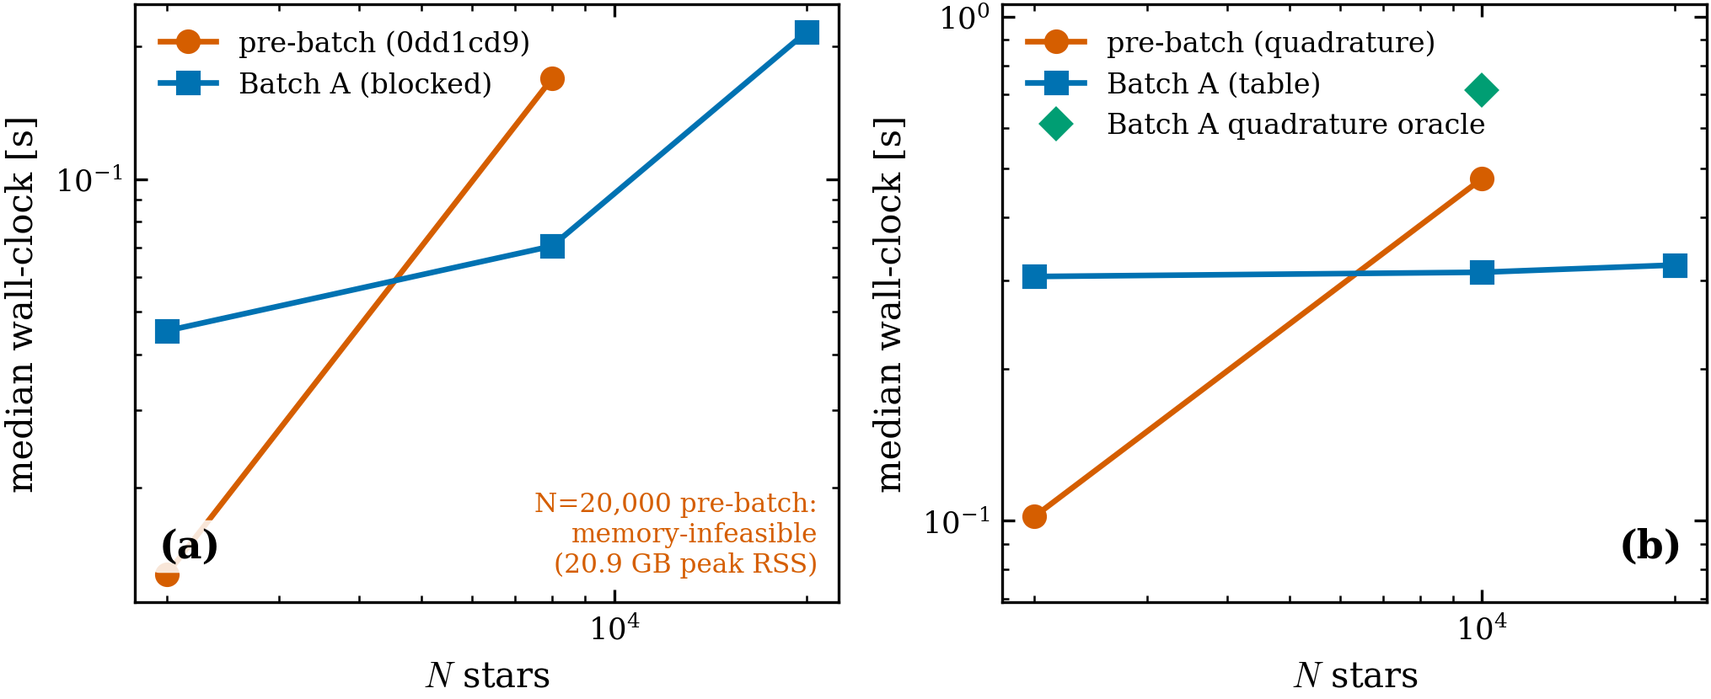
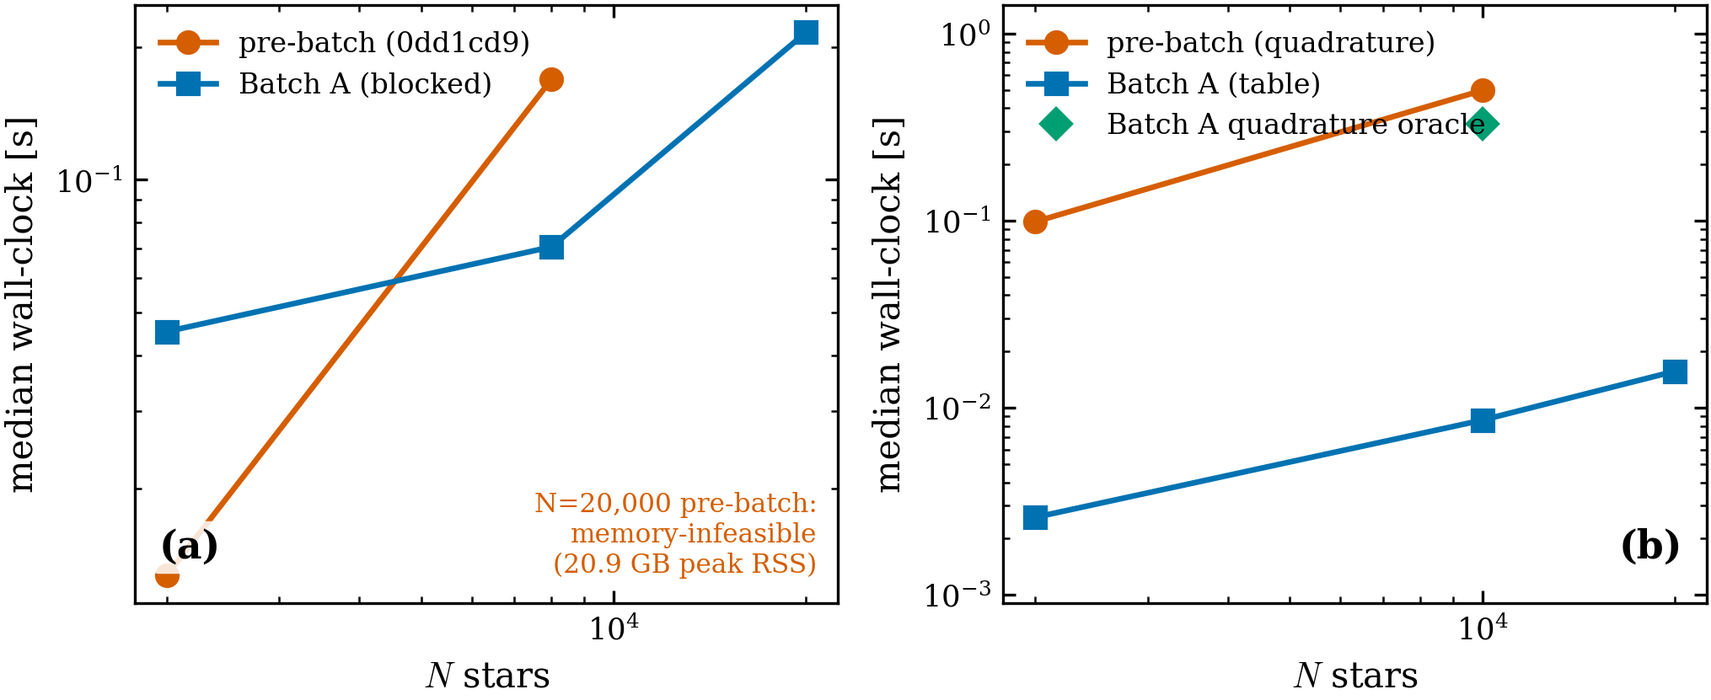
perf(kinematics): sampler-fusion close-out - benchmark re-measured (warm draws 15 ms at N=2e4, 55x), gate tightened to 2.5 GB, docs + counts refreshed (1163)

diff --git a/src/progenax/kinematics/limepy_df.py b/src/progenax/kinematics/limepy_df.py
@@ -104,19 +104,21 @@ class LIMEPYVelocityDF(eqx.Module):
     King (isotropic) / Michie-King (anisotropic).
 
     Speed draws are TABLE-BACKED by default (speed_method="table"): the speed
-    marginal comes from one precomputed inverse-CDF table per call
-    (SpeedCDFTable / AnisoSpeedCDFTable, the same path MultiComponentCluster
-    uses), so live memory is O(N * n_x) instead of the eager per-star
-    quadrature's O(N * 256 * 91) Poisson-sum buffers (measured 10.87 GB at
-    N=2e4 anisotropic; the table path passes the <3 GB gate in
-    scripts/profile_cluster_memory.py). The anisotropic angular conditional
-    cos(theta)|u stays EXACT (_sample_costheta_given_u) -- only the speed
-    marginal is tabulated. speed_method="quadrature" retains the exact
-    per-star quadrature as the oracle (statistical agreement asserted in
-    tests/unit/kinematics/test_limepy_df.py::TestLimepyTableRouting).
-    Small-N note: the anisotropic table build costs ~160 ms per
-    sample_velocities call and dominates below ~3k stars -- batch repeated
-    small draws into one call, or use the quadrature oracle there.
+    marginal comes from the inverse-CDF table CACHED at construction
+    (SpeedCDFTable / AnisoSpeedCDFTable, the same machinery
+    MultiComponentCluster uses), and the whole draw runs through a jitted
+    core, so live memory is O(N) instead of the eager per-star quadrature's
+    O(N * 256 * 91) Poisson-sum buffers (measured at N=2e4 anisotropic:
+    10.87 GB pre-tables; draw-chain peak +0.20 GB cached+jitted; warm draw
+    0.015 s after the one-time ~0.5 s compile). The anisotropic angular
+    conditional cos(theta)|u stays EXACT (_sample_costheta_given_u) -- only
+    the speed marginal is tabulated. speed_method="quadrature" retains the
+    exact per-star quadrature as the oracle (statistical agreement asserted
+    in tests/unit/kinematics/test_limepy_df.py::TestLimepyTableRouting).
+    Cost structure: CONSTRUCTION dominates (~2.6 s / ~1.8 GB peak for an
+    anisotropic model: two ODE solves + the mu integral + the cached table
+    build) -- reuse one DF instance for repeated draws; per-draw cost is
+    then milliseconds at any N.
 
     Attributes:
         W0, g, r_c: model parameters. r_a: anisotropy radius (inf = isotropic).

diff --git a/src/progenax/kinematics/michie_df.py b/src/progenax/kinematics/michie_df.py
@@ -78,19 +78,20 @@ class MichieVelocityDF(eqx.Module):
     anisotropic dimensionless mass integral), so ICs are virial without external rescale.
 
     Speed draws are TABLE-BACKED by default (speed_method="table"): the speed
-    marginal comes from one precomputed inverse-CDF table per call,
-    AnisoSpeedCDFTable.build(W0, p_box, g=1) — Michie IS the g=1 anisotropic
-    LIMEPY model (E_gamma(1, x) = e^x - 1 exactly; the standing
-    distributional proof is test_g1_aniso_matches_michie_velocity_df). The
-    angular conditional cos(theta)|u stays EXACT (_sample_costheta_given_u,
-    weight exp(-(s^2 u^2/2)(1 - cos^2 theta)) = exp(-s^2 u_t^2/2) under
+    marginal comes from the inverse-CDF table CACHED at construction
+    (AnisoSpeedCDFTable.build(W0, p_box, g=1)) via a jitted core — Michie IS
+    the g=1 anisotropic LIMEPY model (E_gamma(1, x) = e^x - 1 exactly; the
+    standing distributional proof is
+    test_g1_aniso_matches_michie_velocity_df). The angular conditional
+    cos(theta)|u stays EXACT (_sample_costheta_given_u, weight
+    exp(-(s^2 u^2/2)(1 - cos^2 theta)) = exp(-s^2 u_t^2/2) under
     u_t = u sin(theta)) — only the speed marginal is tabulated.
     speed_method="quadrature" retains the exact per-star 2-D
     (u_t-marginal-then-u_r) inverse-CDF as the oracle (statistical agreement
     asserted in tests/unit/kinematics/test_michie_df.py::
-    TestMichieTableRouting). Small-N note: the aniso table build (~160 ms
-    per sample_velocities call) dominates below ~3k stars — batch repeated
-    small draws into one call, or use the quadrature oracle there.
+    TestMichieTableRouting). Reuse one DF instance for repeated draws:
+    construction (ODE solve + mu integral + table) dominates; per-draw cost
+    is then milliseconds at any N.
 
     Attributes:
         W0, r_c, r_a: model parameters. xi_grid, psi_grid: Michie ODE solution.

diff --git a/scripts/benchmark_batch_a.py b/scripts/benchmark_batch_a.py
@@ -256,6 +256,11 @@ def main() -> int:
     parser.add_argument("--figures-only", action="store_true",
                         help="re-render the figures from the existing JSON "
                              "(no re-measurement)")
+    parser.add_argument("--only", action="append", default=[],
+                        metavar="PREFIX",
+                        help="run only cases whose id starts with PREFIX "
+                             "(repeatable); results MERGE into the existing "
+                             "JSON so unaffected cases keep their numbers")
     args = parser.parse_args()
 
     if args.figures_only:
@@ -276,10 +281,17 @@ def main() -> int:
     print("BATCH A BENCHMARK (subprocess-isolated; before = pre-batch worktree)")
     print(f"before ref: {PRE_REF}   reps: median of {TIME_REPS} (1 warm-up)")
     print("=" * 76)
+    cases = [c for c in CASES
+             if not args.only or any(c[0].startswith(p) for p in args.only)]
+    if args.only and not cases:
+        raise SystemExit(f"--only {args.only} matches no cases")
+    # Merge mode: start from the existing JSON so unaffected cases persist.
+    results = (json.loads(JSON_PATH.read_text())["results"]
+               if args.only and JSON_PATH.exists() else {})
+    failed = []
     _ensure_worktree(WORKTREE)
-    results, failed = {}, []
     try:
-        for case_id, kind, workload, n, version, extra in CASES:
+        for case_id, kind, workload, n, version, extra in cases:
             res, err = _run_subprocess(case_id, kind, workload, n, version,
                                        extra, WORKTREE)
             if res is None:

diff --git a/src/progenax/kinematics/king_df.py b/src/progenax/kinematics/king_df.py
@@ -71,15 +71,18 @@ class KingVelocityDF(eqx.Module):
     in virial equilibrium (Q = 0.5) without external rescaling, and all particles are
     bound (v < v_esc(r)).
 
-    Speed draws are TABLE-BACKED by default (speed_method="table"): one
-    precomputed inverse-CDF table per call, SpeedCDFTable.build(W0, g=1) —
-    at g=1 the LIMEPY lowered exponential reduces EXACTLY to the King
-    lowering, E_gamma(1, x) = e^x - 1 (identity guarded to rtol 1e-12 in
+    Speed draws are TABLE-BACKED by default (speed_method="table"): the
+    inverse-CDF table is CACHED at construction (SpeedCDFTable.build(W0, g=1))
+    and the draw runs through a jitted core — at g=1 the LIMEPY lowered
+    exponential reduces EXACTLY to the King lowering, E_gamma(1, x) = e^x - 1
+    (identity guarded to rtol 1e-12 in
     tests/unit/kinematics/test_king_df.py::TestKingTableRouting), so the
     table weight x^2 E_gamma(1, W(1-x^2)) IS the King speed weight
     u^2 (exp(W - u^2/2) - 1). speed_method="quadrature" retains the exact
     per-star 256-point quadrature as the oracle (statistical agreement
-    asserted in TestKingTableRouting).
+    asserted in TestKingTableRouting). Reuse one DF instance for repeated
+    draws: construction (ODE solve + table) dominates; per-draw cost is then
+    milliseconds at any N.
 
     Attributes:
         W0: King concentration parameter (dimensionless central potential)

diff --git a/scripts/profile_cluster_memory.py b/scripts/profile_cluster_memory.py
@@ -38,7 +38,9 @@ STAGES = {
     "engineB_halo_core": (100_000, 4.0),
     "virial_pe": (20_000, 2.0),
     "group_virial": (20_000, 2.0),
-    "limepy_df_aniso": (20_000, 3.0),
+    # 2.5 GB: construction-dominated floor (~1.8 GB ODE solves + mu integral
+    # + cached table) + jitted draw (+0.2 GB) + macOS variance headroom.
+    "limepy_df_aniso": (20_000, 2.5),
 }
 _RESULT_PREFIX = "PEAK_RSS_GB"
 

diff --git a/STATUS.md b/STATUS.md
@@ -1,6 +1,6 @@
 # progenax — status
 
-next: **Batch B — cross-engine validation figures + science demos (separate brainstorm + plan).** **DONE (2026-06-10, Anna-approved): Batch A merged to local main** (fast-forward to `2263948`; FAST gate re-verified on merged main 1108; main NOT pushed — 22+ ahead of origin, awaits Anna's go) **+ the performance-evidence addendum** (Anna-requested, plan-approved): `scripts/benchmark_batch_a.py` measures BOTH code versions live (pre-batch worktree at `0dd1cd9` vs HEAD) — wall-clock: PE 2.4× faster at N=8k (0.169→0.070 s), N=2e4 feasible at 0.216 s (dense: 20.9 GB, infeasible), honest small-N regressions measured (PE 3.5× slower at N=2k; DF table-build dominates below ~5k); memory: 16× at N=8k (gated ≥5×); fidelity figures table-vs-quadrature ALL PASS (KS ≤ 6.7e-3); NEW `50-validation/performance-memory.md` page (myst 144 pages, 0 warnings) + King/Michie fidelity embeds. The multi-component cluster arc is DONE end-to-end: Engines A (LIMEPY DF tables) + B (density-defined Eddington) merged to main (`4f4f259`), the post-merge code-review fix batch landed (`0dd1cd9`), and **Batch A (memory + consolidation + docs)** is complete — blocked+remat'd virial kernels (forward AND grad O(block·N)), table-routed standalone LIMEPY/King/Michie DFs (quadrature kept as the `speed_method="quadrature"` oracle), `progenax.numerics` consolidation (cumtrap ×5 + inverse-CDF draws), `_EngineAState` grouping (A-only access on B raises informative AttributeError), shared angular conditional in `kinematics/_speed_kernels.py`, `lax.map(batch_size=2048)` bounded oracles, and the docs metrics refresh. **Memory headline (measured, `scripts/profile_cluster_memory.py`, all PASS): virial kernel at N=2e4 32.8 GB → 0.41 GB; standalone anisotropic DF sampling 10.9 GB → 2.3 GB; Engine A/B builds at N=1e5 ≤ 2.5 GB.** Gate: released-core **1150 passed** (unit 882 / integration 34 / validation 234; fast gate 1108). **Merge/push of `fix/memory-and-consolidation` awaits Anna's go.**
+next: **Batch B — cross-engine validation figures + science demos (separate brainstorm + plan).** **DONE (2026-06-10, Anna-approved): DF sampler-fusion micro-batch** (profile-driven: staged RSS decomposition showed construction ~1.7 GB dominates, eager draw +0.63 GB): speed-CDF tables cached at construction + jitted sampling cores (eqx.filter_jit) for LIMEPY/King/Michie standalone DFs — warm aniso draws **0.35 s → 15 ms** at N=2e4 (3–16 ms across N; 55× vs pre-batch quadrature at N=1e4), draw-chain peak +0.63→+0.20 GB, stage 2.37→2.02 GB, `limepy_df_aniso` gate tightened 3.0→2.5 GB, small-N build penalty eliminated; lax.map chunking of the table draw evaluated and rejected on measurement. Fidelity re-verified on the jitted path (identical KS/moment/β, ALL PASS). Gate: **1163** released-core (unit 895; fast 1121). Remaining DF-stage floor is model CONSTRUCTION (~1.8 GB, paid once per model) — future target if ever needed. **DONE (2026-06-10, Anna-approved): Batch A merged to local main** (fast-forward to `2263948`; FAST gate re-verified on merged main 1108; main NOT pushed — 22+ ahead of origin, awaits Anna's go) **+ the performance-evidence addendum** (Anna-requested, plan-approved): `scripts/benchmark_batch_a.py` measures BOTH code versions live (pre-batch worktree at `0dd1cd9` vs HEAD) — wall-clock: PE 2.4× faster at N=8k (0.169→0.070 s), N=2e4 feasible at 0.216 s (dense: 20.9 GB, infeasible), honest small-N regressions measured (PE 3.5× slower at N=2k; DF table-build dominates below ~5k); memory: 16× at N=8k (gated ≥5×); fidelity figures table-vs-quadrature ALL PASS (KS ≤ 6.7e-3); NEW `50-validation/performance-memory.md` page (myst 144 pages, 0 warnings) + King/Michie fidelity embeds. The multi-component cluster arc is DONE end-to-end: Engines A (LIMEPY DF tables) + B (density-defined Eddington) merged to main (`4f4f259`), the post-merge code-review fix batch landed (`0dd1cd9`), and **Batch A (memory + consolidation + docs)** is complete — blocked+remat'd virial kernels (forward AND grad O(block·N)), table-routed standalone LIMEPY/King/Michie DFs (quadrature kept as the `speed_method="quadrature"` oracle), `progenax.numerics` consolidation (cumtrap ×5 + inverse-CDF draws), `_EngineAState` grouping (A-only access on B raises informative AttributeError), shared angular conditional in `kinematics/_speed_kernels.py`, `lax.map(batch_size=2048)` bounded oracles, and the docs metrics refresh. **Memory headline (measured, `scripts/profile_cluster_memory.py`, all PASS): virial kernel at N=2e4 32.8 GB → 0.41 GB; standalone anisotropic DF sampling 10.9 GB → 2.3 GB; Engine A/B builds at N=1e5 ≤ 2.5 GB.** Gate: released-core **1150 passed** (unit 882 / integration 34 / validation 234; fast gate 1108). **Merge/push of `fix/memory-and-consolidation` awaits Anna's go.**
 
 PRIOR (collapsed; superseded-arc detail in `docs/plans/` + `.claude-work/`): **UNIFIED MULTI-COMPONENT CLUSTER REDESIGN on branch `feat/multimass-limepy-equilibrium`.** An 8-dimension adversarial review of the two-component/segregation code found ONE real physics bug (`generate_two_component_cluster` feeds the FULL mass to each sub-population's velocity DF + no COM/virial rescale → non-self-consistent for unequal-mass IMFs; silent because tests use `jnp.ones(N)`) + an ad-hoc API; the `lambda_seg` blend + `energy_sorted_segregation` are sound. **Decision (Anna, pre-launch, no backwards-compat):** build ONE unified differentiable `MultiComponentCluster` (eqx.Module → ICResult) spanning mass-seg · GC 1G/2G · binaries-vs-singles · halo+core, via TWO engines — **Engine A** (DF-defined lowered-isothermal/LIMEPY, mostly built) + **Engine B** (density-defined Eddington/OM for Plummer/EFF/King). Keep `energy_sorted_segregation` as a labeled PRIMORDIAL generator; **retire the `lambda_seg` blend**. Subsume+retire `MultiMassLIMEPY` (mass-seg → a `.from_mass_segregation()` constructor). Plan: `~/.claude/plans/we-are-continuing-progenax-s-crispy-rain.md`. KEY INSIGHT: a component's single free Engine-A scale is the velocity-scale ratio `w_j=s_j/s` with `rescale_j=w_j^-2`; mass-seg is `w_j=μ_j^-δ`. **DONE: Phase 1a** — extracted `solve_multicomponent_limepy(alpha_j, rescale_j, W0, g, ra_hat_j=None)` core (direct per-component scales); `solve_multimass_limepy` is now a thin mass-wrapper (bit-identical, verified); +5 TDD unit tests; committed `47dc24a`. **DONE: Phase 1b (commit `13de746`, NOT pushed)** — `progenax.cluster.multicomponent.MultiComponentCluster` (eqx.Module): physics flows from `(w_j, rescale_j=w_j^-2, ra_hat_j)`, `m_j` decoupled (labels only); `.from_components` (general: GC 1G/2G, halo+core) / `.from_mass_segregation` (w_j=μ_j^-δ) / `.from_imf`; `sample_cluster → ICResult` with NEW optional `component_id` field; the NEW unequal-mass two-population regression passes (theory Q_j=0.5±2e-3, sampled global ±0.04, per-component ±0.07); `MultiMassLIMEPY` RETIRED (tests ported, validation file + both `validate_multimass_*` scripts rewired and re-run PASS, exports updated). Released-core **1065 passed, exit 0** (1056 at 1a − 14 ported-out + 23 new). **DONE: speed fixes** (commit `3f15479`): pytest-xdist + XLA thread caps + `slow` markers (FAST/FULL gates in CLAUDE.md); solver `rho_j_grid` reuse; jitted sampler core. **DONE: Phase 1.5 — LIMEPY DF tables** (Anna-approved plan `docs/plans/2026-06-09-limepy-df-tables-phase15.md`, subagent-driven with per-task independent review; commits `dda2887..f69f36d` + close-out, NOT pushed): three differentiable table primitives in `profiles/limepy_tables.py` (`AnisoDensityTable` (√W, asinh p) cubic-Lagrange; `SpeedCDFTable` 256×256; `AnisoSpeedCDFTable` 192×48×192 speed marginal with EXACT angular conditional) replace pointwise quadrature in the coupled-Poisson RHS + both sampler branches. **Measured: aniso construction 957→170 ms (5.6×); sampling at N=1e5: iso 67×, aniso 21.7× (0.48/2.9 µs/star); aniso small-N break-even ~3k stars (documented).** Every approximation budget-asserted with the exact quadrature retained as a selectable oracle (`aniso_method="quadrature"`) — density 6.05e-6 (1e-5 budget), solve |Δψ|≤1.93e-4 over 3 configs, CDF 4.5e-5, speed moments ≤0.28%/1.5% vs DF quadrature, β(r)≡DF <0.06 unchanged, AD-vs-FD 2.15e-4 + table-AD≡quadrature-AD 2.1e-4; `component_virial_ratios` deliberately quadrature-ONLY (oracle independence: table-built model proves Q_j=0.5001±1.5e-4). Reviews caught+fixed 3 real bugs pre-merge (W≤0 NaN gradient at the truncation boundary; high-g (≥2.5) CDF-row underflow corrupting outer-shell speeds, now gated g∈{0,2.5,3.5}; the plan's own √(2π) test bug). `scripts/validate_df_tables.py` ALL PASS; completion doc `.claude-work/TASK_1.5_DF_TABLES_COMPLETE.md`. Released-core at 1.5 close-out: 1098 (gate evidence in `.claude-work/TASK_1.5_DF_TABLES_COMPLETE.md`, commit `a85bada`). **DONE: Phase 1c (commits `b1caabb`, `8cda23d`, + 1c-3; NOT pushed)** — the Anna-approved OUTRIGHT DELETION (−3.4k LOC): `populations.py` (the full-mass-to-each-DF physics-bug module) + `cluster/core.py` (string-dispatch `generate_cluster_ic`/`ClusterState`/`SpatialStructureParams`/`MassSegregationLayer`) + `cluster/validation.py` + all `lambda_seg` machinery/scripts RETIRED; `test_segregation_equilibrium_physics.py` PORTED onto the primordial generator via the protocol API (λ=1 endpoint Q_j drift<0.08, orbit-reuse regression, Λ_MSR rises); `validate_cluster_ic.py` §2 rewired to `MultiComponentCluster` (cold w=0.7 median r 1.50 pc < hot 8.36 pc, oracle Q_j=[0.5,0.5], ALL PASS); `mass_segregation.py` relabeled PRIMORDIAL (documented departure from Baumgardt+2008 random per-bin draw; wrong MNRAS 384,1231 cite died with populations.py; dead `_mcluster_partial_shuffle` removed); **eqx migration complete — src/ is dataclass-free** (`ICResult`/`Systems`/`Stars`/`TotalMass`/`AnalyticalIC`/`RotationParams`/`VelocityModel` now eqx.Modules; physical scalars stay differentiable leaves, control-flow config static; jit-over-ICResult verified); `compute_profile_potential` docstring fixed (SPECIFIC potential, [length]²/[time]²). Full gate **1064 passed in 438s** (unit 802/integration 34/validation 228; fast gate 1029; exact count reconciliation 1098−28−7−4+4+1). Phase-3 note: 16 docs/website source pages still reference the deleted API (inventoried; the docs sweep is Phase 3 scope). **DONE: Phase 2 — Engine B (density-defined Eddington), commits `292b6b0..08e328b` + close-out, NOT pushed:** `MultiComponentCluster.from_density_profiles(profiles, mass_fractions, m_j, r_a_j=None, r_t=None)` — Plummer/EFF/King DENSITY components in ONE shared self-consistent potential (no ODE: one cumtrap Poisson pass, new `profiles/density_poisson.py` with derived-domain provenance + King-override conflict rule), per-component DFs via the generic `eddington_invert` (extracted from the EFF table BIT-IDENTICALLY, pinned; + Plummer E^{7/2} (untruncated zero point) and EXACT truncated closed-form oracles, 1.06e-4/8.86e-6), optional per-component OM `r_a_j`, f_j≥0 realizability gate (concrete builds refuse naming the component + f_min + remedy; traced builds store the `f_min_j` diagnostic). Anchors ALL PASS (`scripts/validate_multicomponent_eddington.py`, 11/11): King A-vs-B (TWO independent engines: σ_1d(r) dev 3e-4, radial KS 2e-4, both gates 0.02), EFF(γ=5)≡Plummer twins, halo+core headline (theory Q_j=0.5±4e-4; sampled global Q=0.4976 UNSCALED at N=30k; sampled per-component Q_j ≡ the hybrid predict-the-offset quadrature expectation — the hard-truncated halo's plateau 0.4953 predicted / 0.4947±0.0014 sampled (18 seeds) is VERIFIED truncation-edge physics, gated on the prediction, Anna-approved), OM β_halo(r)≡r²/(r²+r_a²) (max dev 0.028 < 0.05), DF-density fidelity 1.06e-3 (OM) / 2.4e-4 (iso) vs 5e-3 gate, AD≡FD 5.6e-9/7.8e-7/2.0e-8 (r_h, mass-fraction t, r_a). THREE physics findings: (1) the E^{7/2} oracle needs the UNTRUNCATED zero point (truncation shifts E by c=M/√(r_t²+a²), ~30% at 0.1Ψ₀); (2) the plan's default a_EFF=0.4 core is GENUINELY unrealizable (f_min −0.20; gate flip measured a∈(0.65,0.68); headline uses 0.8); (3) hybrid-sampling Q_j plateau predicted+verified. Plus the King dW/dr staircase bug (jnp.gradient of interpolated ψ → Eddington ringing, f_min −0.679) fixed via King's own Poisson identity → +5.1e-7. Full gate **1101 passed in 511s, exit 0** (unit 833, integration 34, validation 234; fast gate 1059); close-out `.claude-work/PHASE_2_ENGINE_B_COMPLETE.md`. **DONE: merge + push (2026-06-10, Anna-approved):** `feat/multimass-limepy-equilibrium` fast-forwarded into `main` (`18f116b..4f4f259`), merged-main gate re-verified **1101 passed**, pushed; local branch deleted (stale remote branch copy left — remote deletion not authorized). **DONE: Phase 3 docs sweep (2026-06-10):** comprehensive website update — `lowered-model-family.md` flipped roadmap→implemented Engine A methods page; populations section rewritten around the two-engine `MultiComponentCluster` (+ NEW `10-theory/populations/eddington-engine.md`); API reference regenerated (PUBLIC_MODULES −populations +cluster/diagnostics/dynamics; 11 module pages, 175 symbols; `30-api/populations.md` deleted); NEW `50-validation/{multimass-equilibrium,engine-b-eddington}.md` with Measured tables + figures (stale mass-seg numbers corrected by re-running validate_cluster_ic.py: Λ_MSR 4.74, ρ(m,E)=−0.92); all 16 inventoried stale-API pages fixed (dev-log: dated retirement admonitions, history preserved); myst build clean (142 pages, 0 warnings). **DONE: /code-review of the merged arc (7 finder angles + verification):** 3 CONFIRMED post-merge correctness bugs — (1) NaN-blind realizability gate (`nan < -1e-3` False; r_a_j=0 → silent all-NaN model), (2) no mass_fractions/m_j/r_a_j length validation vs profiles (phantom components via clamped gathers; potential built from wrong total mass), (3) absolute Ψ thresholds in `sample_speed_from_f_table` are scale-dependent (r_h≳1e4 pc → exact-zero speeds; 80% of stars at r_h=1e6) — plus `total_density()`/`rescale_j` silent-NaN on Engine B, `is_aniso=False` lie for OM-B models, `r_t_provenance` static field embedding float values (per-r_t recompile + vmap break), and a consolidation list (DF speed-moment kernel ×5 copies w/ inconsistent n_w, cumtrap Poisson pass ×3, King density/derivative split, union-by-NaN → _EngineAState grouping). All documented honestly in the new docs limitations admonitions. **RESUME AT: the code-review fix batch (findings 1–3 first; then 4–6; consolidations after), then cross-engine validation figures + science demos.** HITL: push only when Anna says.
 

diff --git a/docs/website/50-validation/performance-memory.md b/docs/website/50-validation/performance-memory.md
@@ -50,7 +50,7 @@ way; the blocked kernel is 0.41 GB at the same $N$.
 * - aniso `LIMEPYVelocityDF.sample_velocities`
   - 20,000
   - 14.6 GB (10.9 GB in the original probe)
-  - **2.37 GB** (≥ 4.6×)
+  - **2.02 GB** (≥ 5.4×; construction-dominated — see below)
 ```
 
 The pass gates live in `scripts/profile_cluster_memory.py` (7 stages,
@@ -75,11 +75,22 @@ measured: `jax.grad` of the potential energy at $N=2\times10^4$ now peaks at
 — verified against an independent dense oracle at rtol $10^{-13}$, gradient
 parity $\leq 2\times10^{-14}$ — only the float64 summation *order* changes
 across blocks. (2) The standalone DFs draw speeds from the same precomputed
-CDF tables the cluster sampler already used (built once per call, ~14 MB);
-the exact per-star quadrature is retained as the oracle behind
-`speed_method="quadrature"`.
+CDF tables the cluster sampler already used (~14 MB), **cached on the module
+at construction** and consumed through a **jitted sampling core**
+(`eqx.filter_jit`, the `cluster/sampling.py` pattern) so the draw chain fuses
+instead of materializing every eager intermediate. A staged profile
+(2026-06-10, $N=2\times10^4$ aniso) attributes the remaining footprint:
+**construction dominates** (~1.8 GB: two ODE solves + the $\mu$ integral +
+the cached table build, paid once per model), the jitted draw adds only
++0.20 GB (eager it was +0.63 GB), and warm draws take **15 ms** after the
+one-time ~0.5 s compile. The exact per-star quadrature is retained as the
+oracle behind `speed_method="quadrature"` (also jitted now). A further
+`lax.map` chunking of the table draw was evaluated and **rejected on
+measurement**: it would shave part of a 0.2 GB component inside a
+construction-dominated stage while adding scan overhead to a millisecond
+hot path.
 
-## Wall-clock: measured, including the honest small-$N$ regressions
+## Wall-clock: measured, including the honest small-$N$ crossover
 
 :::{figure} figures/performance_walltime.png
 :name: fig-performance-walltime
@@ -90,15 +101,14 @@ Median wall-clock per call vs $N$ (log–log; 2026-06-10). **(a)**
 (2.4× at $N=8{,}000$: 0.169 → 0.070 s) and is the only feasible option at
 $N = 2\times10^4$ (0.216 s); below the crossover the dense broadcast is
 faster (0.013 vs 0.045 s at $N=2{,}000$) — scan overhead dominates when the
-dense transient is only ~100 MB. **(b)** anisotropic LIMEPY sampling: the
-table path is nearly flat in $N$ (the ~0.3 s is dominated by the one-time
-table build, which amortizes), 1.5× faster than pre-batch at $N=10^4$ and
-increasingly far ahead as $N$ grows; at small $N$ the build dominates
-(documented in the DF docstrings — batch small repeated draws, or use the
-quadrature oracle there). The post-batch quadrature oracle (green) is slower
-than the pre-batch eager `vmap` because it is `lax.map`-chunked to bound its
-memory — the deliberate trade for an oracle that can run next to the table
-path in tests without filling RAM.
+dense transient is only ~100 MB. **(b)** anisotropic LIMEPY sampling, after
+the sampler-fusion follow-up (table cached at construction + jitted core):
+warm draws cost **3–16 ms** across $N = 2\times10^3$–$2\times10^4$ — 55×
+faster than the pre-batch quadrature at $N=10^4$ (0.497 → 0.009 s) — with the
+former small-$N$ table-build penalty eliminated (the build moved into
+construction, paid once per model; a ~0.5 s jit compile is paid on the first
+draw per $N$). The quadrature oracle (green) also runs in the jitted core
+(0.33 s at $N=10^4$, `lax.map`-chunked to bound its memory).
 :::
 
 Timings are reported, never gated (they vary with machine load); the memory
@@ -135,6 +145,11 @@ embedded on the [King](king-profile.md) and
 
 Exact potential energies, virial diagnostics, and their `jax.grad` at
 $N \gtrsim 10^5$ on a laptop (footprint linear in $N$; `block_size` is
-tunable); standalone anisotropic DF sampling at survey scale; and a CI-able
-memory regression gate. The $N=2\times10^4$ workloads that previously OOM'd
-this 68.7 GB machine now fit in half a GB.
+tunable); standalone anisotropic DF sampling at survey scale with
+millisecond repeated draws (build the DF once, draw many times — e.g. seed
+ensembles); and a CI-able memory regression gate (the `limepy_df_aniso` gate
+is tightened to 2.5 GB to lock in the fusion win). The $N=2\times10^4$
+virial workloads that previously OOM'd this 68.7 GB machine now fit in half
+a GB; the remaining DF-stage floor (~1.8 GB) is **model construction** (ODE
+solves + the $\mu$ integral), a future optimization target if it ever
+matters — it is paid once per model, not per draw.

diff --git a/CLAUDE.md b/CLAUDE.md
@@ -6,8 +6,8 @@ Differentiable initial conditions for N-body simulations in JAX. Part of the **j
 
 **Status**: Phase 1 + 2026-06 audit hardening + binaries SoTA arc (Batches 4f–4k) +
 gravoturbulent-FDF clean-room rewrite + multi-component cluster arc (Engine A LIMEPY DF tables +
-Engine B density-defined Eddington) complete - 16,957 LOC released-core source, 1472 tests
-(released-core 1150: unit 882, integration 34, validation 234; experimental 322). King & EFF velocity DFs are true
+Engine B density-defined Eddington) complete - 16,957 LOC released-core source, 1485 tests
+(released-core 1163: unit 895, integration 34, validation 234; experimental 322). King & EFF velocity DFs are true
 equilibria (lowered-Maxwellian / Eddington inversion). The binary-population engine is finalized:
 IMF→companion composition (`build_binary_cluster` over `primary_imf × companion_model × target`),
 faithful Moe & Di Stefano (2017) P–q–e coupling (`MoeCompanions`), the binary→spatial connector
@@ -28,16 +28,16 @@ outer-venv clash and `--no-sync` runs against the installed env without re-locki
 # Install (released core + experimental extras: blackjax, optax for the inference layer)
 env -u VIRTUAL_ENV uv pip install -e ".[dev,experimental]"
 
-# Released-core invariant (1150 tests). The multimass-LIMEPY equilibrium tests make the
+# Released-core invariant (1163 tests). The multimass-LIMEPY equilibrium tests make the
 # serial suite ~17 min; use pytest-xdist with XLA threads capped (one process per core).
-# FAST GATE (inner loop, 1108 tests, ~4 min): excludes @pytest.mark.slow
+# FAST GATE (inner loop, 1121 tests, ~4 min): excludes @pytest.mark.slow
 XLA_FLAGS="--xla_cpu_multi_thread_eigen=false intra_op_parallelism_threads=1" \
   env -u VIRTUAL_ENV uv run --no-sync pytest tests/unit tests/integration tests/validation -q -m "not slow" -n auto
-# FULL GATE (phase/commit gate, 1150 tests, ~9 min parallel):
+# FULL GATE (phase/commit gate, 1163 tests, ~9 min parallel):
 XLA_FLAGS="--xla_cpu_multi_thread_eigen=false intra_op_parallelism_threads=1" \
   env -u VIRTUAL_ENV uv run --no-sync pytest tests/unit tests/integration tests/validation -q -n auto
 
-env -u VIRTUAL_ENV uv run --no-sync pytest tests/unit/ -q             # 882 unit tests (released core)
+env -u VIRTUAL_ENV uv run --no-sync pytest tests/unit/ -q             # 895 unit tests (released core)
 env -u VIRTUAL_ENV uv run --no-sync pytest tests/integration/ -q      # 34 integration tests
 env -u VIRTUAL_ENV uv run --no-sync pytest tests/validation/ -q       # 234 physics validation tests
 
@@ -193,8 +193,8 @@ energy = compute_total_energy(positions, velocities, masses, G=PLANETARY.G)  # W
 ## Test Structure
 
 ```text
-tests/                   1150 released-core tests
-├── unit/                882 tests
+tests/                   1163 released-core tests
+├── unit/                895 tests
 │   ├── imf/             IMF tests (PowerLaw, Chabrier, IGIMF, Binary, Moe full P-q-e)
 │   ├── profiles/        Profile tests (Plummer, King, EFF)
 │   ├── kinematics/      Velocity DF tests + anisotropy

diff --git a/docs/website/00-getting-started/whats-new.md b/docs/website/00-getting-started/whats-new.md
@@ -7,6 +7,30 @@ description: Release-style changelog for progenax — most recent change first. 
 Release-style changelog. Most recent change first. Curated from the
 [development log](../90-development-log/index.md).
 
+## 2026-06-10 — Standalone-DF sampler fusion (cached tables + jitted cores)
+
+Profile-driven follow-up to the memory batch (staged peak-RSS decomposition
+at $N=2\times10^4$ anisotropic):
+
+- **Speed-CDF tables cached at construction** — the LIMEPY / King / Michie
+  standalone DFs build their inverse-CDF table once in `__init__` (it depends
+  only on construction-time parameters) instead of on every
+  `sample_velocities` call. The former small-$N$ per-call build penalty is
+  gone.
+- **Jitted sampling cores** (`eqx.filter_jit`, the cluster-sampler pattern) —
+  the draw chain fuses instead of materializing every eager intermediate:
+  draw-chain peak +0.63 GB → +0.20 GB; warm anisotropic draws
+  **0.35 s → 15 ms** at $N=2\times10^4$ (3–16 ms across
+  $N=2\times10^3$–$2\times10^4$; 55× vs the pre-batch quadrature at $N=10^4$).
+  Table-vs-oracle fidelity re-verified on the jitted path (identical KS /
+  moment / $\beta$ numbers, ALL PASS).
+- The `limepy_df_aniso` memory gate is **tightened 3.0 → 2.5 GB** (measured
+  2.02 GB; the remaining floor is model *construction*, paid once per model).
+  Full numbers and figures: [performance & memory](../50-validation/performance-memory.md).
+
+**Gate.** Released-core **1163 tests passing** (unit 895, integration 34,
+validation 234).
+
 ## 2026-06-10 — Memory-bounded kernels, table-routed standalone DFs, numerics consolidation
 
 A production-scale memory + consolidation pass over the cluster and kinematics stack:

diff --git a/docs/website/50-validation/index.md b/docs/website/50-validation/index.md
@@ -22,8 +22,8 @@ See the [**validation audit report**](audit-report.md) for trustworthiness tiers
 
 The single place to see the V&V state. ✅ = tests pass *and* verified figure(s)
 embedded on the page; ⚠ = tested but page/figures pending the module audit.
-Released-core suite (2026-06-10): **1150 tests**
-(unit 882 / integration 34 / **validation 234**), full gate green.
+Released-core suite (2026-06-10): **1163 tests**
+(unit 895 / integration 34 / **validation 234**), full gate green.
 
 ```{list-table}
 :header-rows: 1

diff --git a/docs/website/00-getting-started/science-capabilities.md b/docs/website/00-getting-started/science-capabilities.md
@@ -381,7 +381,7 @@ here outruns the test suite.
 ## Why you can trust the numbers
 
 progenax's persuasion strategy is measured numbers, not adjectives. At
-the current close-out the released core carries **1150 tests** (882
+the current close-out the released core carries **1163 tests** (895
 unit / 34 integration / 234 physics-validation), and the validation
 tier is built on three habits worth knowing before you rely on the
 package:
